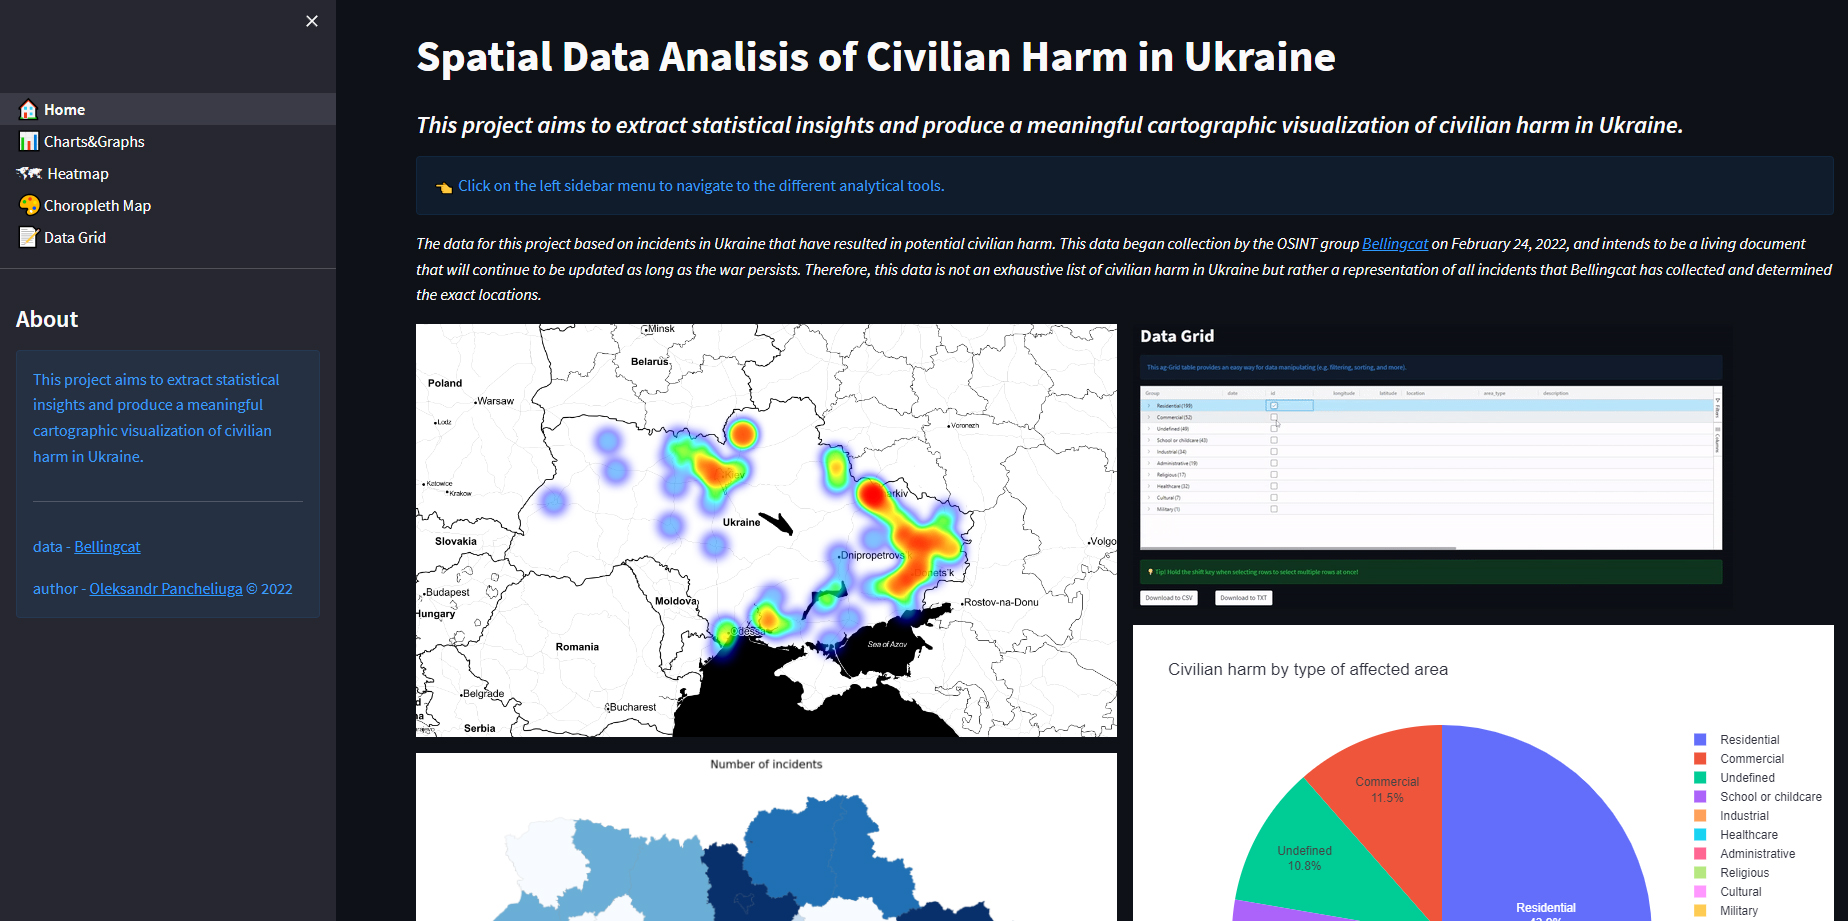
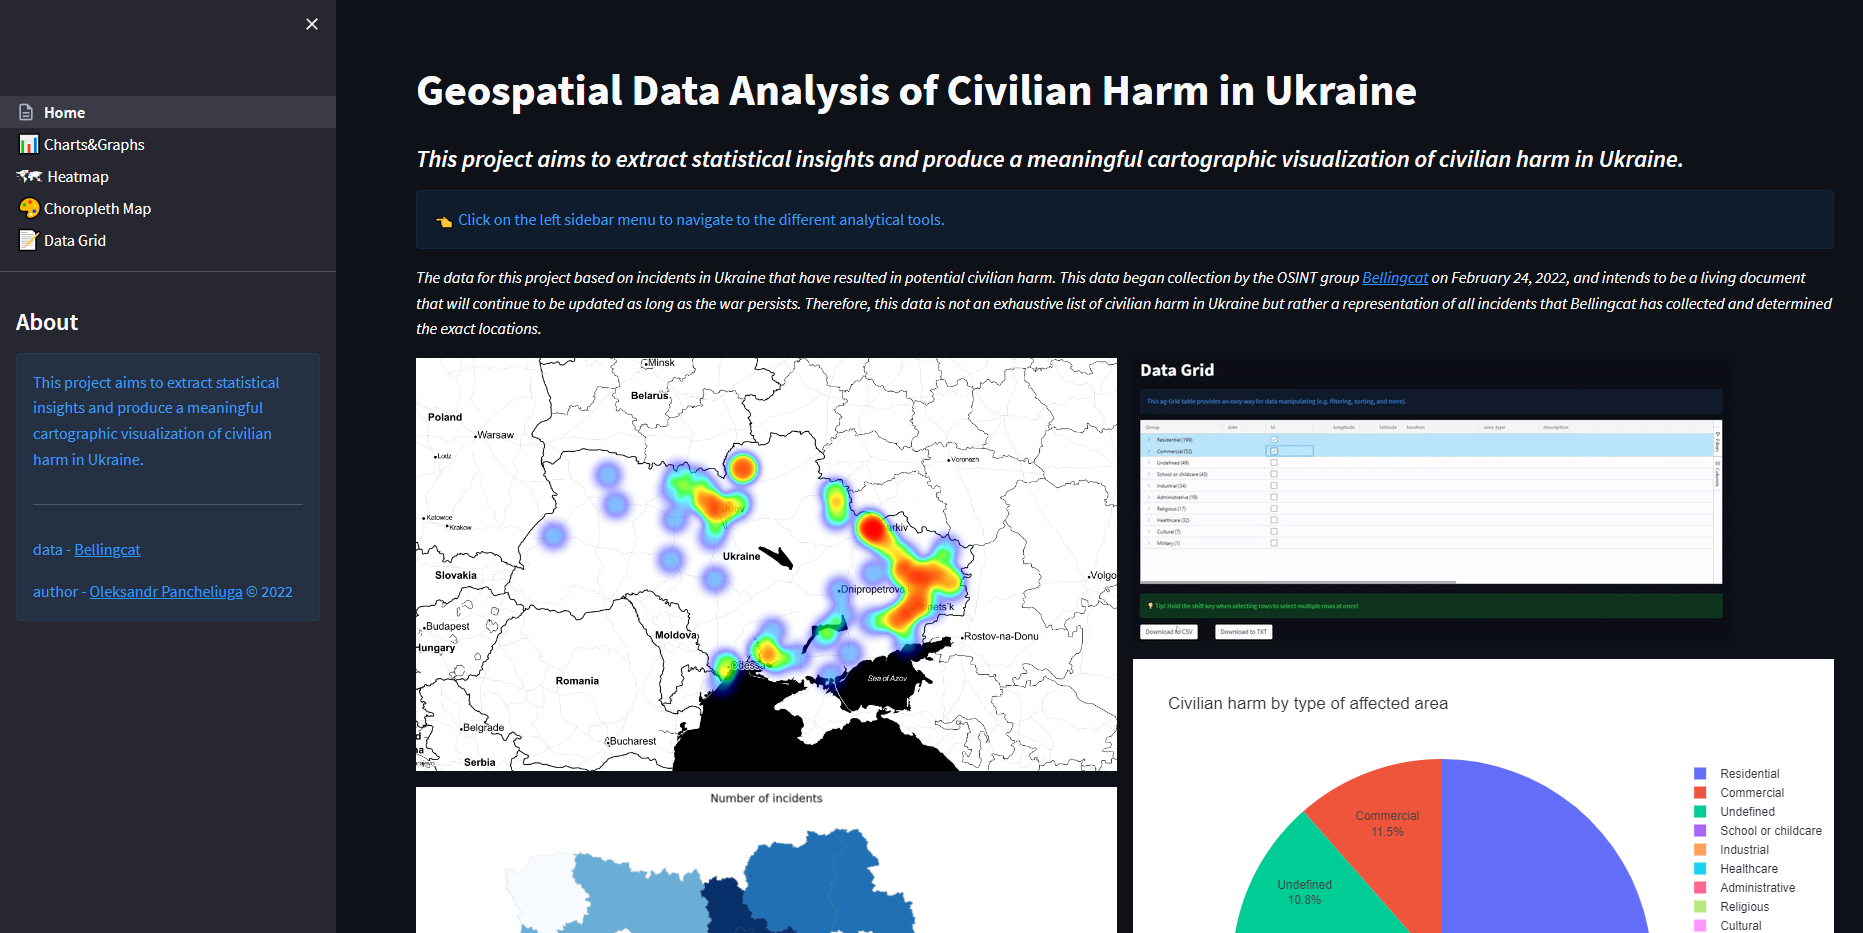
Add new proj - SDA Civilian Harm App

diff --git a/src/posts/Streamlit framework for developing interactive dashboards and geospatial visualization.md b/src/posts/Streamlit framework for developing interactive dashboards and geospatial visualization.md
@@ -1,11 +1,11 @@
 ---
 title: 'Streamlit framework for developing interactive dashboards and geospatial visualization'
-description: 'Web app for Spatial Data Analisis of Civilian Harm in Ukraine.'
+description: 'Web app for Spatial Data Analysis of Civilian Harm in Ukraine.'
 date: '2022-06-03'
 tags: ['Streamlit', 'web app', 'geospatial visualization', 'interactive dashboards']
 ---
 
-I guess a lot of folks who play with data in [Jupyter](https://jupyter.org/) notebooks caught themselves thinking about how to present the results of their analysis. And while working on my last [project](https://pancheliuga.com/projects/spatial-data-analisis-of-civilian-harm-in-ukraine/), I faced the same challenge.
+I guess a lot of folks who play with data in [Jupyter](https://jupyter.org/) notebooks caught themselves thinking about how to present the results of their analysis. And while working on my last [project](https://pancheliuga.com/projects/spatial-data-analysis-of-civilian-harm-in-ukraine/), I faced the same challenge.
 
 Of course, I like to work in a Jupyter environment, and today we have modern cloud-based solutions like [Google Colab](https://colab.research.google.com/) and [JupyterHub](https://jupyter.org/hub), which open the easy way to share the results of research. But in general, the end-users are students, researchers, and data scientists who can step-by-step reproduce your data analysis.
 
@@ -19,6 +19,6 @@ I immediately became a "streamliter" when I got wet with this tool. It took me a
 
 There is a huge advantage to presenting data analysis in the web application form. If you work with continuous data, instead of launching the Jupyter environment every time, you just open an app and retrieve updated results.
 
-Feel free to check my [web app for Spatial Data Analisis of Civilian Harm in Ukraine](https://share.streamlit.io/pancheliuga/civilian-harm-app/main/Home.py) and the [Github repo](https://github.com/Pancheliuga/civilian-harm-app) for source code.
+Feel free to check my [web app for Spatial Data Analysis of Civilian Harm in Ukraine](https://share.streamlit.io/pancheliuga/civilian-harm-app/main/Home.py) and the [Github repo](https://github.com/Pancheliuga/civilian-harm-app) for source code.
 
 P.S. Today Streamlit team announced a new feature - [multipage apps](https://blog.streamlit.io/introducing-multipage-apps/), and it was easy as snap fingers to implement to my app.

diff --git a/src/projects/civilian-harm-app.md b/src/projects/civilian-harm-app.md
@@ -1,0 +1,42 @@
+---
+title: 'Geospatial Data Analysis of Civilian Harm in Ukraine'
+summary: 'Web application for interactive dashboards and geospatial visualization of Civilian Harm in Ukraine.'
+displayOrder: 1
+featured: true
+hero:
+  image: '/images/projects/SDA-civil-harm-app.jpg'
+  imageAlt: 'SDA civil harm app.'
+keyFacts:
+  - icon: '🌎'
+    description: 'Spatial Data Science'
+  - icon: '🧱'
+    description: 'Data munging (pandas/geopandas)' 
+  - icon: '📊'
+    description: 'Statistical Data Visualization (plotly)'
+  - icon: '🗺'
+    description: 'Interactive maps (folium)'
+  - icon: '🐍'
+    description: 'Python'
+  - icon: '👑'
+    description: 'Streamlit'
+Links:
+  url: 'https://share.streamlit.io/pancheliuga/civilian-harm-app/main/Home.py'
+  title: 'Launch app'
+---
+
+The main idea of this project was to present the results of my previous work - [Spatial Data Analysis of Civilian Harm in Ukraine](https://pancheliuga.com/projects/spatial-data-analysis-of-civilian-harm-in-ukraine/), which was made in the Jupyter notebook, to a broad audience.
+
+The web application looks suitable for this case for a few reasons:
+- the data used in this analysis is continuous, and instead of launching the Jupyter environment every time, you open an app and retrieve updated results;
+- the web app provides an additional interactive tool for data analysis;
+- easy to share the results of work with "no-data science" people,
+
+and in general, the web-based application works on a variety of devices on the web browser.
+
+This web app combines different tools for data analysis:
+1. Charts & Graphs.
+2. Heatmap.
+3. Choropleth Map. 
+4. Data Grid.
+
+Please visit the [web app for Geospatial Data Analysis of Civilian Harm in Ukraine](https://share.streamlit.io/pancheliuga/civilian-harm-app/main/Home.py) to see the work results or find the [Github repo](https://github.com/Pancheliuga/civilian-harm-app) for the source code.

diff --git a/src/posts/Spatial Data Analysis of Civilian Harm in Ukraine.md b/src/posts/Spatial Data Analysis of Civilian Harm in Ukraine.md
@@ -1,5 +1,5 @@
 ---
-title: 'Spatial Data Analisis of Civilian Harm in Ukraine'
+title: 'Spatial Data Analysis of Civilian Harm in Ukraine'
 description: 'Geospatial data science approach for statistical visualization.'
 date: '2022-05-24'
 tags: ['jupyter', 'spatial data analysis', 'pandas', 'geopandas', 'folium', 'pyplot']
@@ -202,7 +202,7 @@ incidents_df.info()
     memory usage: 25.1+ KB
 
 
-## Statistical analisis
+## Statistical analysis
 
 #### Analysing civilian harm by type of affected area
 

diff --git a/src/projects/spatial-data-analysis-of-civilian-harm-in-ukraine.md b/src/projects/spatial-data-analysis-of-civilian-harm-in-ukraine.md
@@ -1,5 +1,5 @@
 ---
-title: 'Spatial Data Analisis of Civilian Harm in Ukraine'
+title: 'Spatial Data Analysis of Civilian Harm in Ukraine'
 summary: 'Geospatial data science approach for statistical visualization.'
 displayOrder: 2
 featured: true
@@ -219,7 +219,7 @@ incidents_df.info()
     memory usage: 25.1+ KB
 
 
-## Statistical analisis
+## Statistical analysis
 
 #### Analysing civilian harm by type of affected area
 
